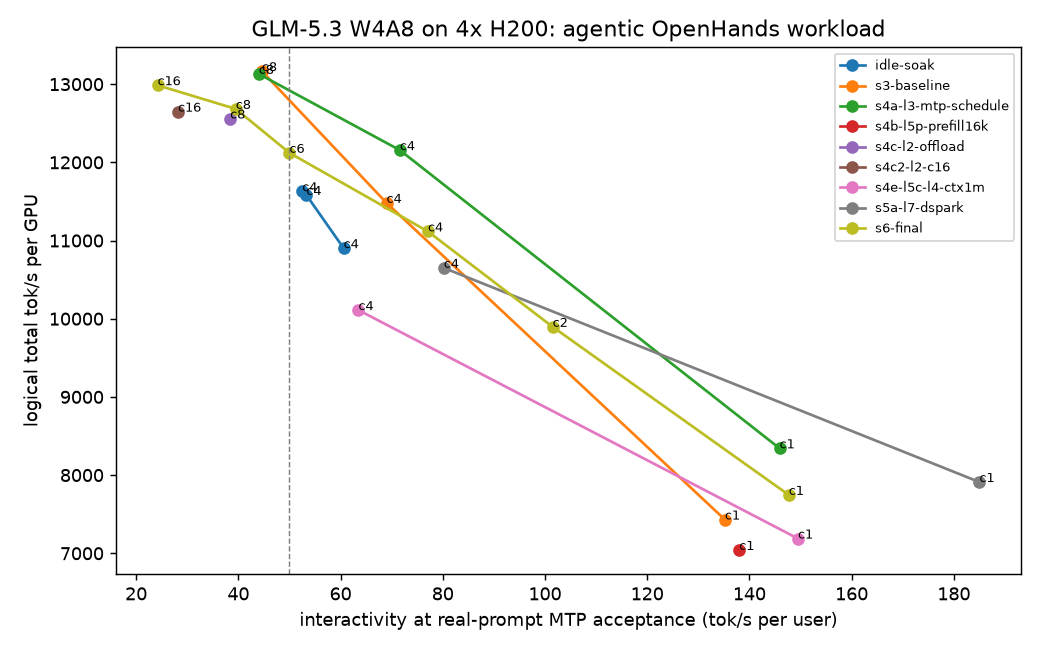
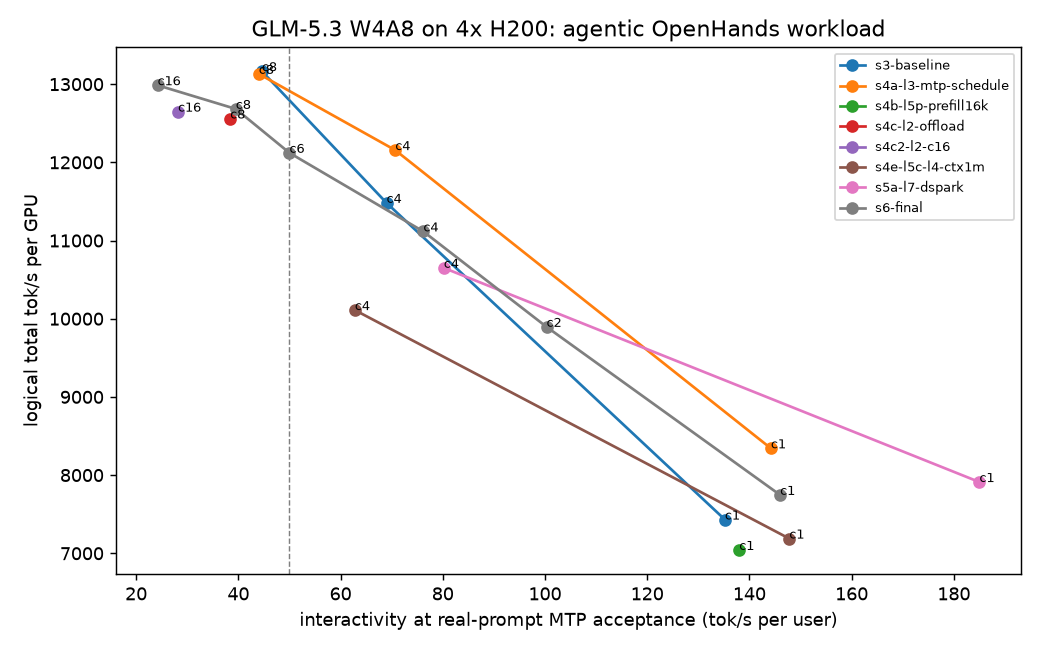
report.py: soak summary (probe availability/outages, memory trend, drill, block pass rates)

diff --git a/evals/report.py b/evals/report.py
@@ -177,6 +177,52 @@ def quality_rows():
     return out
 
 
+def median(xs):
+    xs = sorted(xs)
+    return (xs[(len(xs) - 1) // 2] + xs[len(xs) // 2]) / 2 if xs else None
+
+
+def soak_rows(ag):
+    """Per soak step: liveness-probe availability and outages (probe.csv: ts,http_code,seconds), the memory trend
+    (mem.csv: ts, MiB used per GPU..., container RSS MiB), the crash drill, and SLO pass rates of repeated blocks."""
+    out = []
+    for p in live(sorted(glob.glob(f"{RAW}/*/*/probe.csv"))):
+        d = os.path.dirname(p)
+        step = os.path.basename(d)
+        probes = [l.strip().split(",") for l in open(p) if l.count(",") == 2]
+        ok = [float(s) for _, code, s in probes if code == "200"]
+        outages, run = [], []
+        for ts, code, _ in probes + [("0", "200", "0")]:
+            if code != "200":
+                run.append(int(ts))
+            elif run:
+                outages.append(f"{len(run)} probes from {run[0]} (~{run[-1] - run[0] + 30} s)")
+                run = []
+        row = {"step": step, "hours": round((int(probes[-1][0]) - int(probes[0][0])) / 3600, 2) if probes else 0,
+               "probes": len(probes), "availability_pct": round(100 * len(ok) / len(probes), 2) if probes else None,
+               "probe_s_p50": round(median(ok), 3) if ok else None,
+               "probe_s_max": round(max(ok), 2) if ok else None, "outages": "; ".join(outages) or "none"}
+        mem = [list(map(float, l.strip().split(","))) for l in open(os.path.join(d, "mem.csv"))] \
+            if os.path.exists(os.path.join(d, "mem.csv")) else []
+        if len(mem) >= 2:
+            hrs = (mem[-1][0] - mem[0][0]) / 3600 or 1
+            row["gpu_mib_first_last"] = f"{max(mem[0][1:-1]):.0f} -> {max(mem[-1][1:-1]):.0f}"
+            row["rss_mib_first_last"] = f"{mem[0][-1]:.0f} -> {mem[-1][-1]:.0f} ({(mem[-1][-1] - mem[0][-1]) / hrs:+.0f}/h)"
+        drill = load(os.path.join(d, "drill.json"))
+        row["drill_kill_to_ready_s"] = drill.get("kill_to_ready_s") if drill else None
+        blocks = {}
+        for r in ag:
+            if r["step"] == step and r["name"].startswith("soak_"):
+                blocks.setdefault(r["c"], []).append(r)
+        row["blocks"] = "; ".join(
+            f"c={c}: {sum(b['slo_ok'] for b in bs)}/{len(bs)} pass, median tok/s {min(b['inter_real'] for b in bs)}-"
+            f"{max(b['inter_real'] for b in bs)} (median {median([b['inter_real'] for b in bs]):.1f}), "
+            f"TTFT p50 median {median([b['ttft_p50_ms'] for b in bs]):.0f} ms, failed {sum(b['failed'] for b in bs)}"
+            for c, bs in sorted(blocks.items()) if all(b["inter_real"] for b in bs)) or "none"
+        out.append(row)
+    return out
+
+
 def pareto(rows, path):
     try:
         import matplotlib
@@ -187,7 +233,7 @@ def pareto(rows, path):
     fig, ax = plt.subplots(figsize=(8, 5))
     series = {}
     for r in rows:
-        if r["inter_real"] and not r["step"].startswith("r0"):
+        if r["inter_real"] and not r["step"].startswith("r0") and not r["name"].startswith("soak_"):
             series.setdefault(f"{r['step']}", []).append((r["inter_real"], r["total_tok_s_per_gpu"], r["c"]))
     for label, pts in series.items():
         pts.sort()
@@ -233,7 +279,10 @@ def main():
            table(ref, ["step", "c", "n", "in", "failed", "ttft_p50_ms", "ttft_p90_ms", "tpot_p50_ms", "tpot_p90_ms", "itl_p50_ms",
                        "interactivity",
                        "out_tok_s", "total_tok_s_per_gpu", "goodput_rps", "mtp_al", "usd_per_m_out"]),
-           "\n## Quality, MTP acceptance, restarts, KV capacity\n", table(quality_rows(), ["step", "file", "result"])]
+           "\n## Quality, MTP acceptance, restarts, KV capacity\n", table(quality_rows(), ["step", "file", "result"]),
+           "\n## Soak: liveness, memory trend, crash drill, repeated blocks\n",
+           table(soak_rows(ag), ["step", "hours", "probes", "availability_pct", "probe_s_p50", "probe_s_max", "outages",
+                                 "gpu_mib_first_last", "rss_mib_first_last", "drill_kill_to_ready_s", "blocks"])]
     if pareto(ag, os.path.join(ROOT, "results", "pareto.png")):
         md.append("\n![pareto](pareto.png)\n")
     with open(os.path.join(ROOT, "results", "REPORT_DATA.md"), "w") as f:

diff --git a/results/REPORT_DATA.md b/results/REPORT_DATA.md
@@ -14,20 +14,20 @@ interactivity is the raw 1000/TPOT p50 (per-request median); step_ms = TPOT p50 
 | s3-baseline | 1 | 52 | 0 | 428.59 | 484.84 | 12910.29 | 5.74 | 5.93 | 23.11 | 29.25 | 174.2 | 21.8 | 2.95 | 135.2 | 130.8 | 81.6755 | 7431 | 0.9175 | 3.802 | 0.0 | True | 21.16 | 71.97 | 1337 | 0.0158 |
 | s3-baseline | 4 | 104 | 0 | 503.65 | 745.37 | 39379.9 | 11.4 | 19.92 | 33.68 | 1412.99 | 87.7 | 42.8 | 2.95 | 69.0 | 39.5 | 126.3797 | 11481 | 0.9176 | 3.752 | 0.0 | True | 5.29 | 46.51 | 2068 | 0.0102 |
 | s3-baseline | 8 | 208 | 0 | 576.89 | 1108.0 | 77281.53 | 17.51 | 38.57 | 43.21 | 1421.22 | 57.1 | 66.2 | 2.95 | 44.6 | 20.2 | 144.9076 | 13166 | 0.9176 | 3.78 | 0.0 | False |  | 40.56 | 2371 | 0.0089 |
-| s4a-l3-mtp-schedule | 1 | 52 | 0 | 396.77 | 468.25 | 12966.72 | 4.48 | 4.7 | 26.31 | 27.84 | 223.2 | 24.3 | 3.54 | 145.9 | 139.1 | 91.6837 | 8342 | 0.9178 | 5.419 | 0.0 | True | 21.16 | 64.11 | 1500 | 0.0141 |
-| s4a-l3-mtp-schedule | 4 | 104 | 0 | 569.25 | 1164.9 | 39456.65 | 9.42 | 17.05 | 39.96 | 1419.99 | 106.2 | 49.5 | 3.54 | 71.6 | 39.5 | 133.7617 | 12156 | 0.9177 | 5.255 | 0.0 | True | 5.29 | 43.94 | 2189 | 0.0097 |
+| s4a-l3-mtp-schedule | 1 | 52 | 0 | 396.77 | 468.25 | 12966.72 | 4.48 | 4.7 | 26.31 | 27.84 | 223.2 | 24.3 | 3.5 | 144.2 | 137.5 | 91.6837 | 8342 | 0.9178 | 5.419 | 0.0 | True | 21.16 | 64.11 | 1500 | 0.0141 |
+| s4a-l3-mtp-schedule | 4 | 104 | 0 | 569.25 | 1164.9 | 39456.65 | 9.42 | 17.05 | 39.96 | 1419.99 | 106.2 | 49.5 | 3.5 | 70.7 | 39.1 | 133.7617 | 12156 | 0.9177 | 5.255 | 0.0 | True | 5.29 | 43.94 | 2189 | 0.0097 |
 | s4a-l3-mtp-schedule | 8 | 208 | 0 | 573.46 | 1411.02 | 77454.93 | 17.75 | 37.92 | 43.97 | 1423.85 | 56.3 | 67.0 | 2.95 | 44.0 | 20.6 | 144.5272 | 13131 | 0.9176 | 3.777 | 0.0 | False |  | 40.67 | 2365 | 0.0089 |
 | s4b-l5p-prefill16k | 1 | 52 | 0 | 421.95 | 500.39 | 12604.71 | 6.1 | 6.72 | 23.94 | 24.93 | 163.9 | 21.4 | 2.95 | 138.0 | 125.3 | 77.4986 | 7042 | 0.9174 | 3.503 | 0.0 | True | 21.16 | 75.84 | 1268 | 0.0167 |
 | s4c-l2-offload | 8 | 208 | 0 | 613.52 | 1378.03 | 77700.76 | 20.23 | 39.52 | 44.06 | 1429.1 | 49.4 | 76.9 | 2.95 | 38.4 | 19.6 | 138.1952 | 12560 | 0.9146 | 3.799 | 0.0 | False |  | 42.53 | 2262 | 0.0094 |
 | s4c2-l2-c16 | 16 | 208 | 0 | 3949.56 | 26910.17 | 180351.55 | 28.3 | 51.42 | 51.95 | 1427.84 | 35.3 | 104.7 | 2.95 | 28.2 | 15.5 | 139.2877 | 12648 | 0.0051 | 3.701 | 0.0 | False |  | 42.2 | 2279 | 0.0093 |
-| s4e-l5c-l4-ctx1m | 1 | 52 | 0 | 486.98 | 549.38 | 16112.09 | 4.52 | 4.97 | 26.89 | 28.16 | 221.2 | 23.7 | 3.54 | 149.5 | 135.9 | 79.0724 | 7188 | 0.9145 | 5.243 | 0.0 | True | 21.16 | 74.33 | 1294 | 0.0164 |
-| s4e-l5c-l4-ctx1m | 4 | 104 | 0 | 571.09 | 2038.48 | 48386.3 | 10.95 | 22.09 | 40.69 | 889.93 | 91.3 | 55.8 | 3.54 | 63.5 | 31.5 | 111.32 | 10110 | 0.9145 | 5.093 | 0.0 | True | 5.29 | 52.8 | 1822 | 0.0116 |
+| s4e-l5c-l4-ctx1m | 1 | 52 | 0 | 486.98 | 549.38 | 16112.09 | 4.52 | 4.97 | 26.89 | 28.16 | 221.2 | 23.7 | 3.5 | 147.8 | 134.4 | 79.0724 | 7188 | 0.9145 | 5.243 | 0.0 | True | 21.16 | 74.33 | 1294 | 0.0164 |
+| s4e-l5c-l4-ctx1m | 4 | 104 | 0 | 571.09 | 2038.48 | 48386.3 | 10.95 | 22.09 | 40.69 | 889.93 | 91.3 | 55.8 | 3.5 | 62.8 | 31.1 | 111.32 | 10110 | 0.9145 | 5.093 | 0.0 | True | 5.29 | 52.8 | 1822 | 0.0116 |
 | s5a-l7-dspark | 1 | 52 | 0 | 457.37 | 524.97 | 15240.92 | 3.61 | 4.27 | 25.75 | 27.35 | 277.0 | 21.2 | 3.92 | 185.0 | 156.4 | 87.0677 | 7911 | 0.9161 | 5.868 | 0.0 | True | 21.16 | 67.51 | 1425 | 0.0149 |
 | s5a-l7-dspark | 4 | 104 | 0 | 545.38 | 971.07 | 46397.86 | 8.41 | 20.4 | 41.95 | 1666.7 | 118.9 | 48.9 | 3.92 | 80.2 | 33.0 | 117.233 | 10650 | 0.916 | 5.812 | 0.0 | True | 5.29 | 50.14 | 1918 | 0.011 |
-| s6-final | 1 | 52 | 0 | 479.74 | 532.3 | 13166.7 | 4.78 | 5.14 | 26.55 | 27.77 | 209.2 | 24.0 | 3.54 | 147.7 | 137.4 | 85.2919 | 7746 | 0.9146 | 5.016 | 0.0 | True | 21.16 | 68.91 | 1396 | 0.0152 |
+| s6-final | 1 | 52 | 0 | 479.74 | 532.3 | 13166.7 | 4.78 | 5.14 | 26.55 | 27.77 | 209.2 | 24.0 | 3.5 | 146.0 | 135.8 | 85.2919 | 7746 | 0.9146 | 5.016 | 0.0 | True | 21.16 | 68.91 | 1396 | 0.0152 |
 | s6-final | 16 | 416 | 0 | 2377.46 | 23475.7 | 153317.92 | 32.68 | 64.39 | 57.5 | 1427.52 | 30.6 | 121.7 | 2.95 | 24.2 | 12.3 | 143.0016 | 12986 | 0.1195 | 3.723 | 0.0 | False |  | 41.1 | 2340 | 0.009 |
-| s6-final | 2 | 52 | 0 | 521.85 | 794.24 | 25923.32 | 6.65 | 8.95 | 31.95 | 388.98 | 150.4 | 34.9 | 3.54 | 101.5 | 75.4 | 109.0095 | 9896 | 0.9145 | 5.248 | 0.0 | True | 10.58 | 53.92 | 1784 | 0.0119 |
-| s6-final | 4 | 104 | 0 | 714.32 | 10971.42 | 39907.73 | 9.52 | 16.97 | 40.53 | 1421.68 | 105.0 | 46.0 | 3.54 | 77.1 | 43.2 | 122.4186 | 11116 | 0.9145 | 4.827 | 0.0 | True | 5.29 | 48.01 | 2003 | 0.0106 |
+| s6-final | 2 | 52 | 0 | 521.85 | 794.24 | 25923.32 | 6.65 | 8.95 | 31.95 | 388.98 | 150.4 | 34.9 | 3.5 | 100.3 | 74.5 | 109.0095 | 9896 | 0.9145 | 5.248 | 0.0 | True | 10.58 | 53.92 | 1784 | 0.0119 |
+| s6-final | 4 | 104 | 0 | 714.32 | 10971.42 | 39907.73 | 9.52 | 16.97 | 40.53 | 1421.68 | 105.0 | 46.0 | 3.5 | 76.2 | 42.7 | 122.4186 | 11116 | 0.9145 | 4.827 | 0.0 | True | 5.29 | 48.01 | 2003 | 0.0106 |
 | s6-final | 6 | 156 | 0 | 762.2 | 1342.91 | 64820.55 | 15.26 | 28.55 | 39.47 | 1421.17 | 65.5 | 59.0 | 2.95 | 50.0 | 26.7 | 133.3715 | 12121 | 0.9147 | 3.868 | 0.0 | False |  | 44.07 | 2182 | 0.0097 |
 | s6-final | 8 | 208 | 0 | 604.77 | 8385.82 | 77438.4 | 19.69 | 39.45 | 43.6 | 1423.73 | 50.8 | 74.7 | 2.95 | 39.5 | 19.7 | 139.5031 | 12683 | 0.9146 | 3.795 | 0.0 | False |  | 42.13 | 2283 | 0.0093 |
 
@@ -90,6 +90,8 @@ interactivity is the raw 1000/TPOT p50 (per-request median); step_ms = TPOT p50 
 | s5a-l7-dspark | niah.json | 130589 tok d=0.5 found=True ttft=27.28s prefill=4787 tok/s decode=284.7 tok/s |
 | s5a-l7-dspark | toolcalls.json | 48/48 gate=True info={'info_untyped_json_null': False, 'info_untyped_json_null/stream': False, 'info_untyped_json_number': False, 'info_untyped_json_number/stream': False, 'info_untyped_json_bool': False, 'info_untyped_json_bool/stream': False, 'info_untyped_json_nested': False, 'info_untyped_json_nested/stream': False, 'info_markers_in_prose_vllm_64326': False, 'info_markers_in_prose_vllm_64326/stream': False, 'info_empty_props_oneof_glm5_169': False, 'info_empty_props_oneof_glm5_169/stream': False} |
 | s6-final | apply.json | restart to ready 257 s |
+| s6-final | gsm8k.json | acc 0.9689 n=1319 gate=True tokens=164 |
+| s6-final | mtp_al.json | AL 3.501467782181124 rate 50.02935564362249 tpot 10.36 ms |
 | s6-final | niah.json | 130549 tok d=0.1 found=True ttft=23.41s prefill=5576 tok/s decode=5088.8 tok/s; 130562 tok d=0.5 found=True ttft=23.36s prefill=5589 tok/s decode=6003.4 tok/s; 130552 tok d=0.9 found=True ttft=23.37s prefill=5587 tok/s decode=268.0 tok/s; 204310 tok d=0.1 found=True ttft=37.33s prefill=5473 tok/s decode=980.1 tok/s; 204318 tok d=0.5 found=True ttft=37.39s prefill=5464 tok/s decode=188.4 tok/s; 204328 tok d=0.9 found=True ttft=37.37s prefill=5468 tok/s decode=1090.7 tok/s |
 | s6-final | toolcalls.json | 48/48 gate=True info={'info_untyped_json_null': False, 'info_untyped_json_null/stream': False, 'info_untyped_json_number': False, 'info_untyped_json_number/stream': False, 'info_untyped_json_bool': False, 'info_untyped_json_bool/stream': False, 'info_untyped_json_nested': False, 'info_untyped_json_nested/stream': False, 'info_markers_in_prose_vllm_64326': True, 'info_markers_in_prose_vllm_64326/stream': True, 'info_empty_props_oneof_glm5_169': False, 'info_empty_props_oneof_glm5_169/stream': False} |
 | r01-rehearsal | boot_facts | GPU KV cache size: 362,096 tokens, Maximum concurrency for 32,768 tokens per request: 11.05x |
@@ -102,5 +104,11 @@ interactivity is the raw 1000/TPOT p50 (per-request median); step_ms = TPOT p50 
 | s4f-l4d-ctx1m-bt2k | boot_facts | GPU KV cache size: 1,230,848 tokens, Maximum concurrency for 1,048,576 tokens per request: 1.17x |
 | s5a-l7-dspark | boot_facts | GPU KV cache size: 484,557 tokens, Maximum concurrency for 262,144 tokens per request: 1.85x |
 | s6-final | boot_facts | GPU KV cache size: 1,169,664 tokens, Maximum concurrency for 262,144 tokens per request: 4.46x |
+
+## Soak: liveness, memory trend, crash drill, repeated blocks
+| step | hours | probes | availability_pct | probe_s_p50 | probe_s_max | outages | gpu_mib_first_last | rss_mib_first_last | drill_kill_to_ready_s | blocks |
+|---|---|---|---|---|---|---|---|---|---|---|
+| r01-rehearsal | 0.01 | 4 | 100.0 | 0.105 | 0.11 | none |  |  |  | none |
+| s7-soak | 0.09 | 12 | 100.0 | 0.234 | 0.3 | none | 140287 -> 140287 | 336649 -> 336843 (+2320/h) |  | none |
 
 ![pareto](pareto.png)
